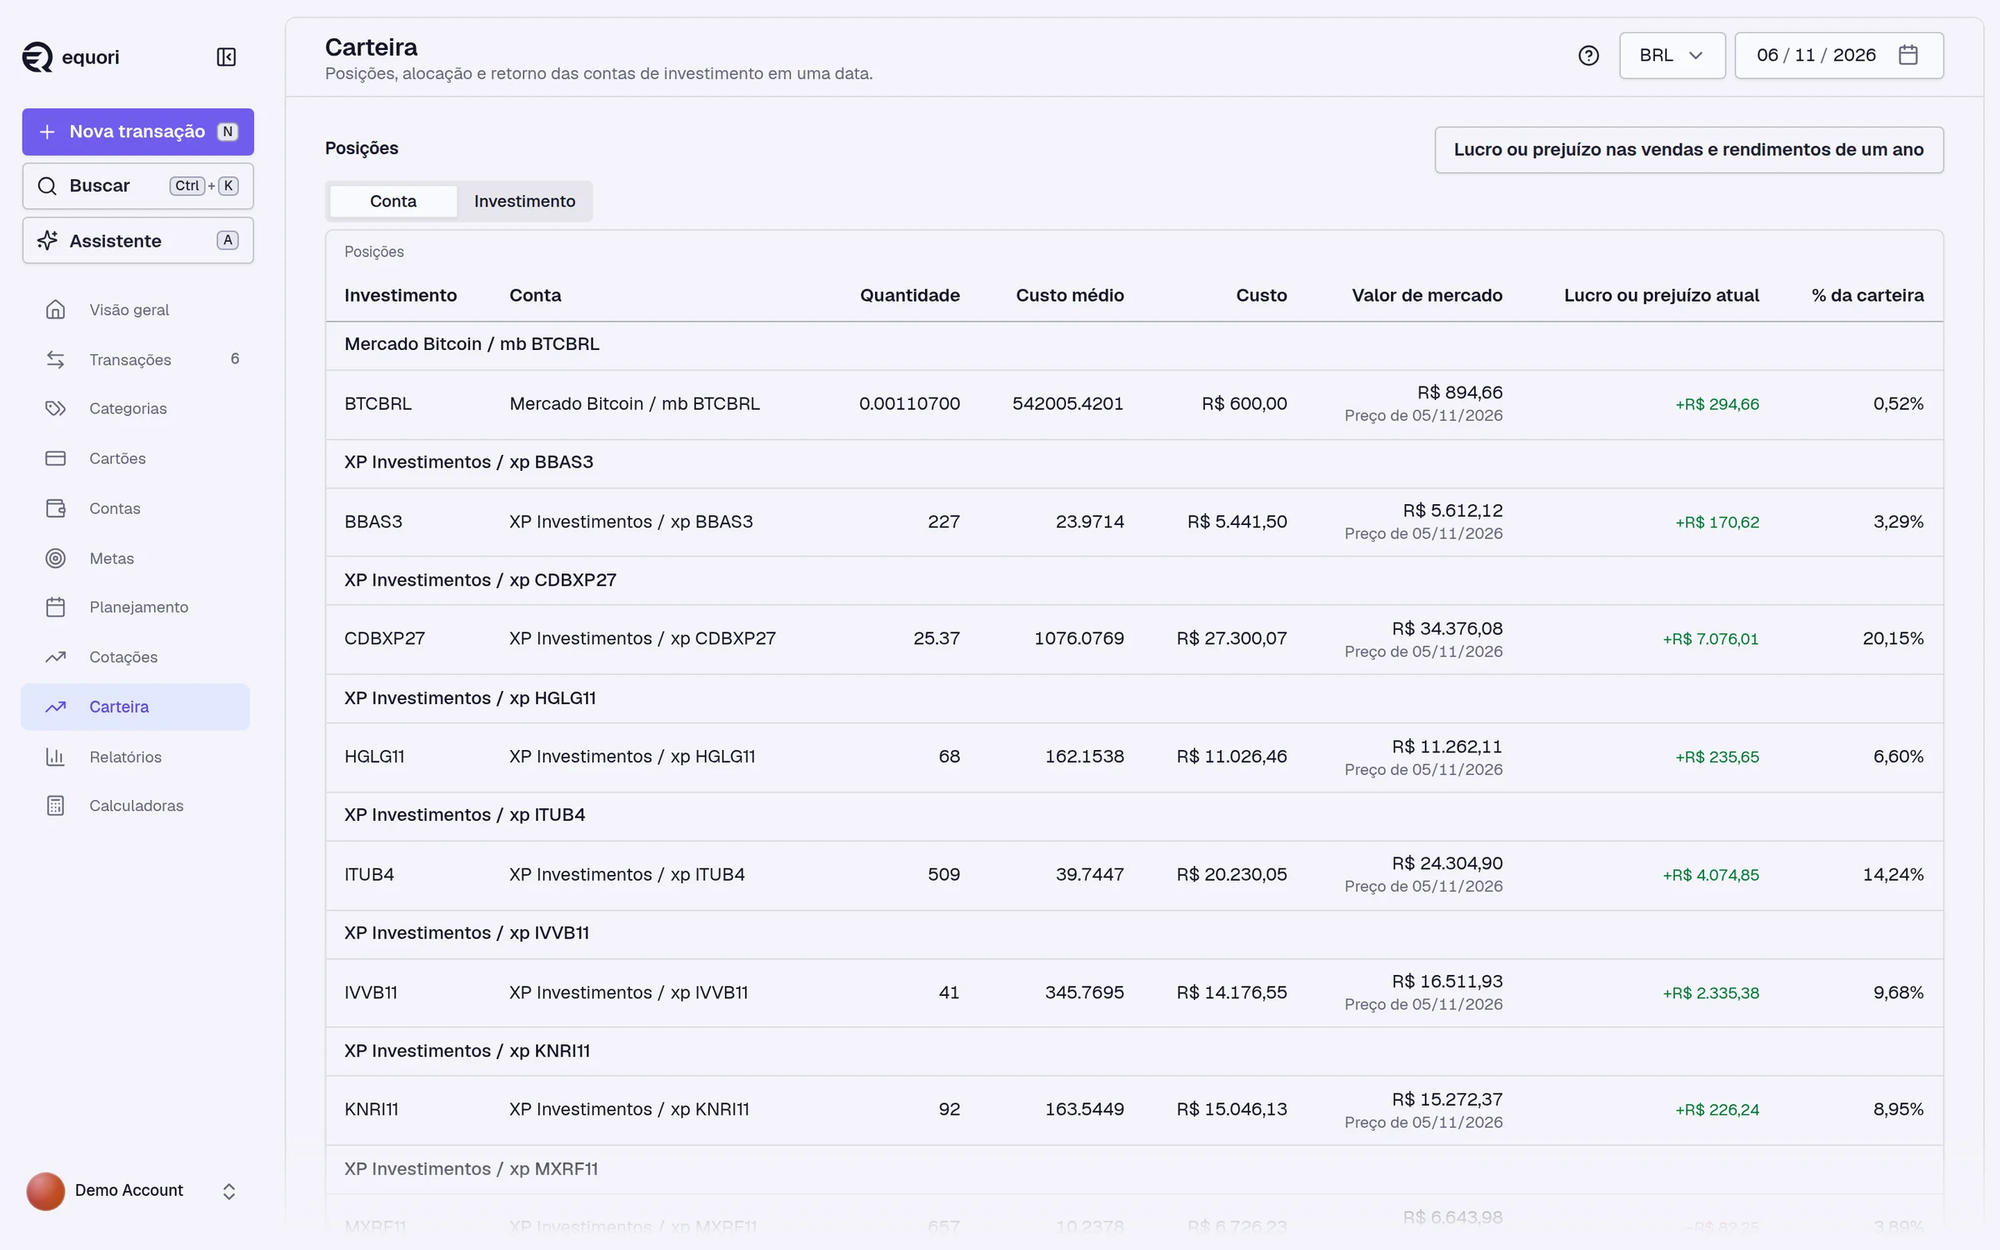
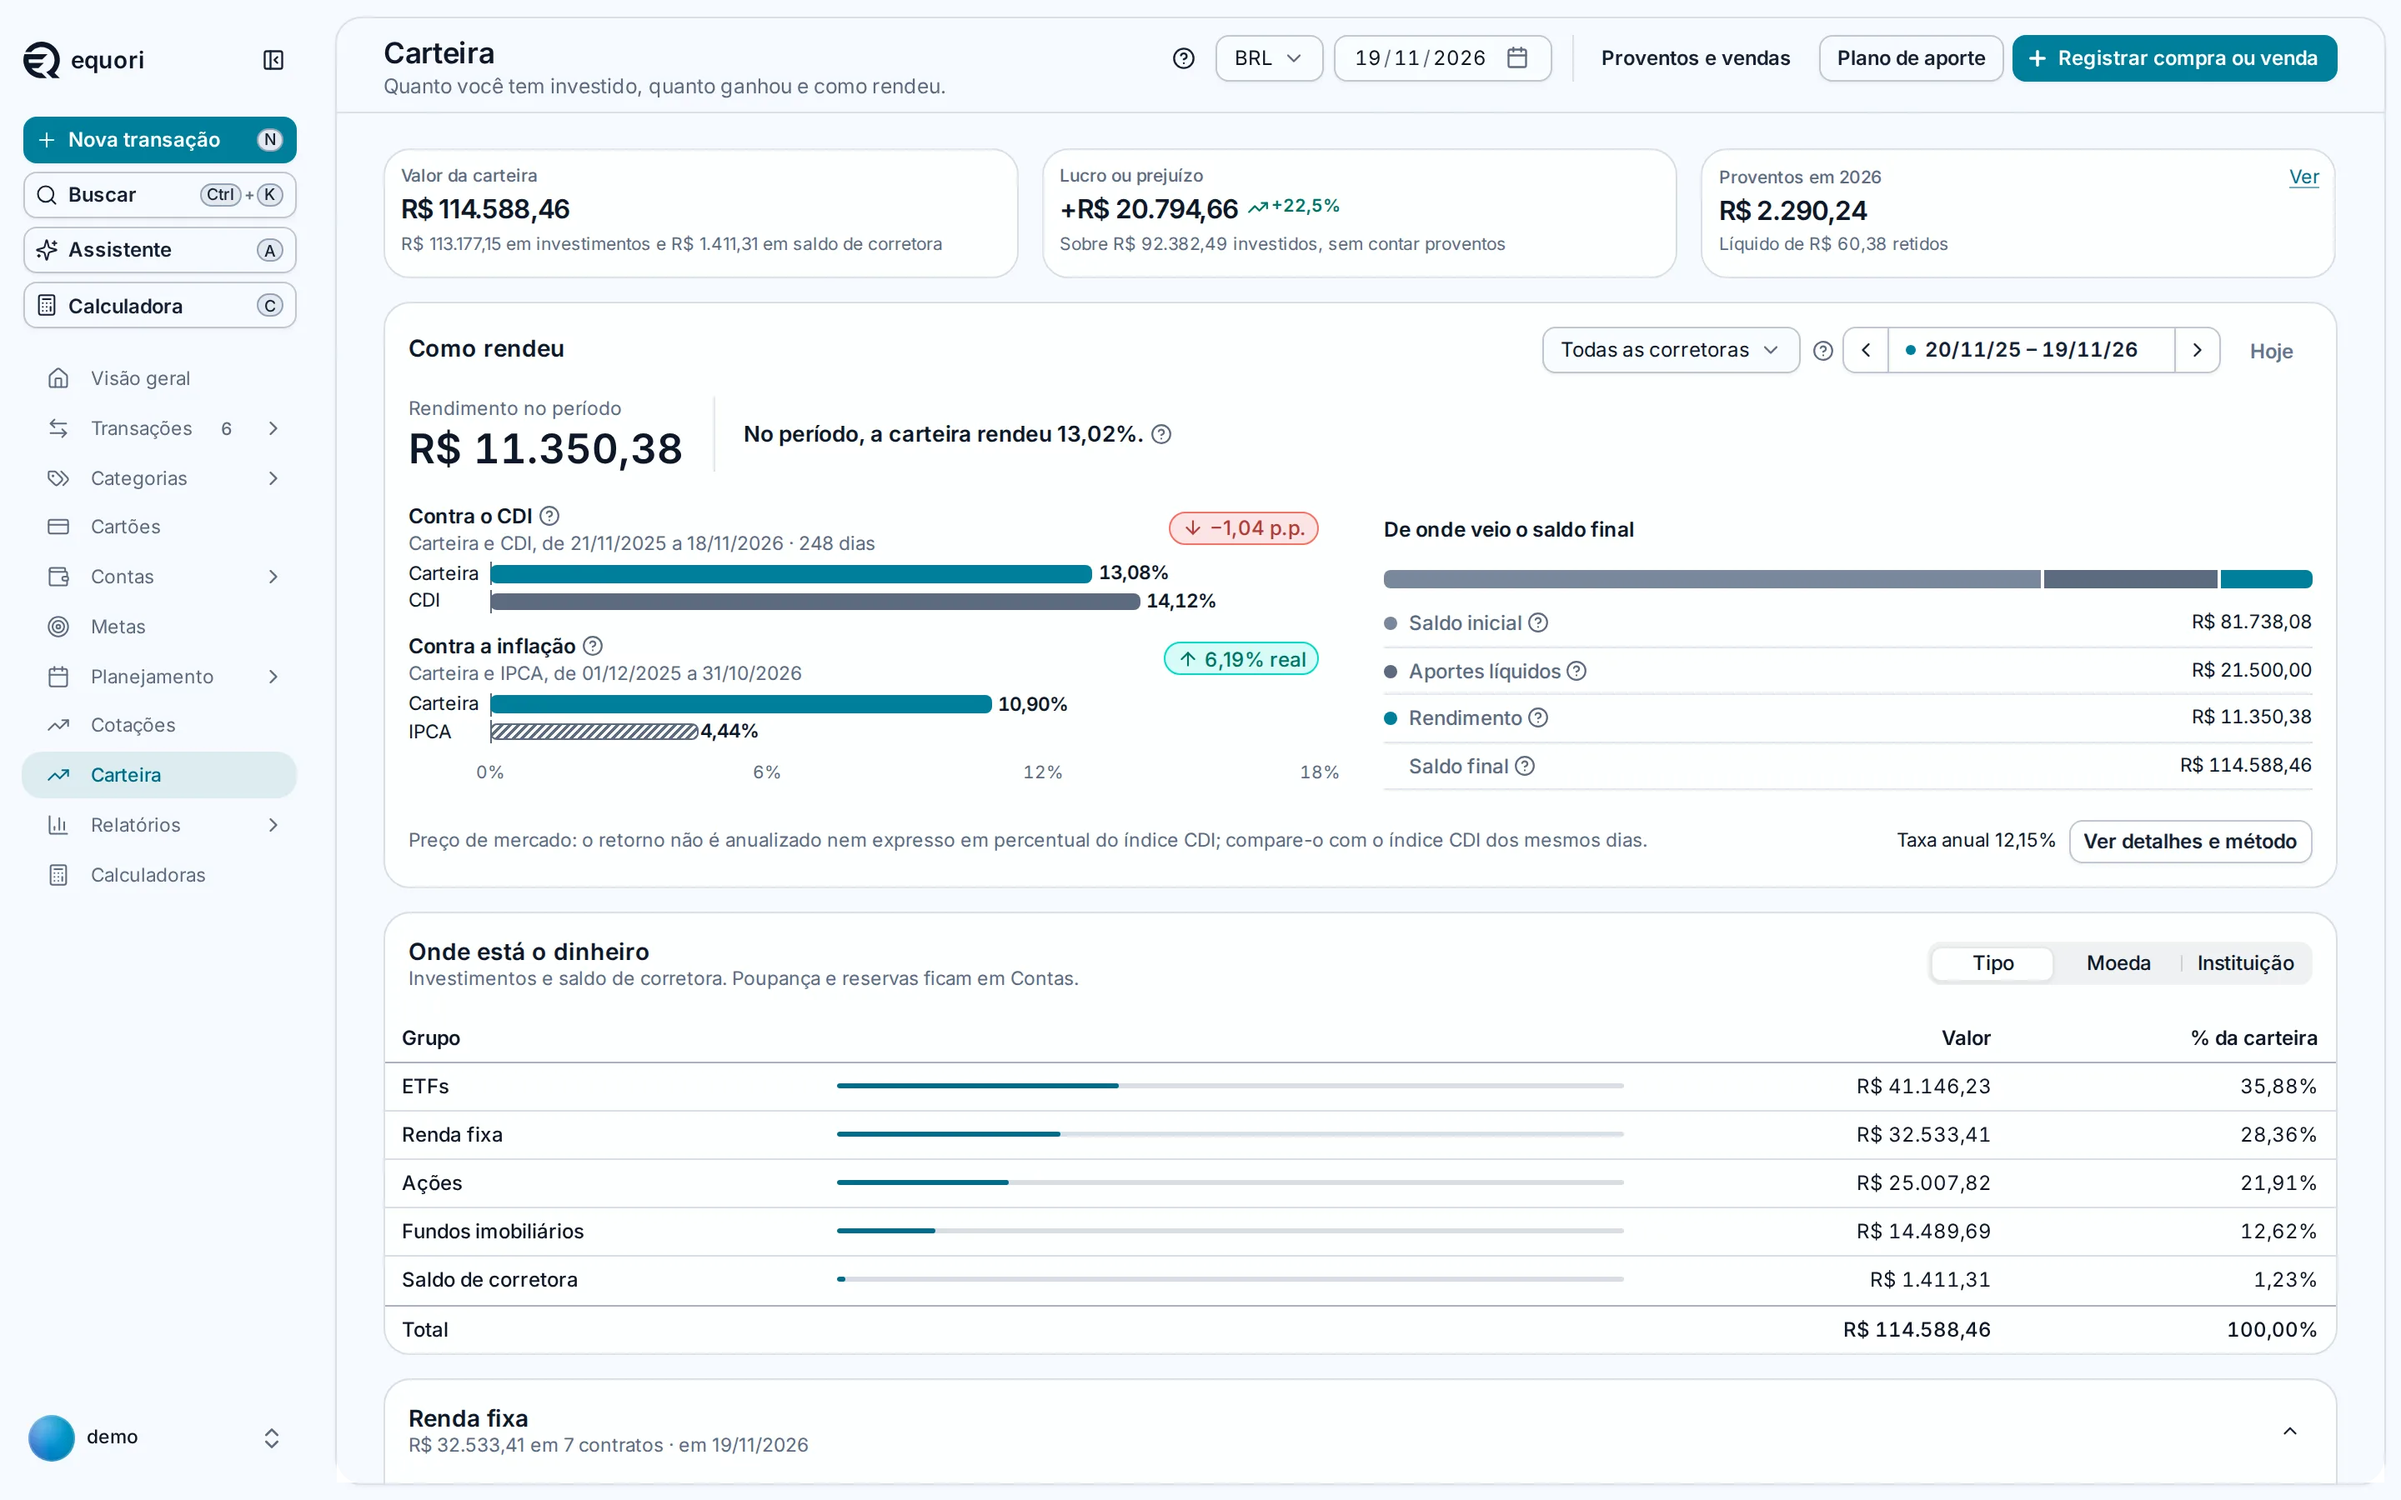
docs(platform): refresh the readme screenshots
The screenshots of the readme showed the interface of 2026-11-06: the
old accent, the old sidebar and a portfolio screen that no longer
exists. They are captured again from the demo account at 1440x900
with a 2x pixel ratio, in the light and dark schemes, with the
account's stored appearance left out so each scheme applies. The
reports capture is 1050 px tall so the daily net worth chart shows
whole. The portfolio caption describes the screen as it is now.

diff --git a/README.md b/README.md
@@ -47,11 +47,11 @@ Net worth by month and by day. The dashed line projects the balance from the sch
 
 ### Portfolio
 
-Positions with quantity, average cost, market value, profit or loss and share of the portfolio.
+Portfolio value, profit or loss, the return of the period against the CDI and inflation, and the share of each asset class.
 
 <picture>
   <source media="(prefers-color-scheme: dark)" srcset="docs/assets/portfolio-dark.webp">
-  <img alt="The portfolio screen: positions by account with cost, market value and profit or loss." src="docs/assets/portfolio-light.webp">
+  <img alt="The portfolio screen: value, profit or loss, return against the CDI and inflation, and allocation by asset class." src="docs/assets/portfolio-light.webp">
 </picture>
 
 ## Install
